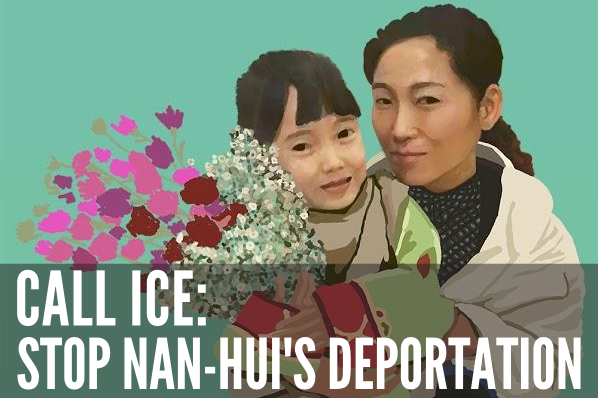
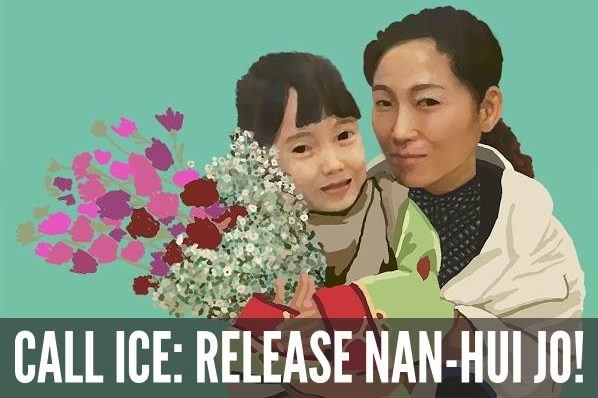
nan-hui jo campaign updates

diff --git a/_includes/head.html b/_includes/head.html
@@ -65,7 +65,7 @@
 	
   <script src="{{ baseurl }}/static/js/jquery-1.11.1.min.js"></script>
   <script src="{{ baseurl }}/static/js/main.js"></script>
-  {% if page.title == "Call ICE: Stop Deporting This Domestic Violence Survivor" %}
+  {% if page.title == "Call ICE: Release Nan-Hui Jo, Stop Deporting Survivors" %}
   <script src="{{ baseurl }}/static/js/callice.js"></script>
   {% endif %}
   {% if page.title == "Call Rep. Judy Chu: stand with the many, not the few" %}

diff --git a/static/js/callice.js b/static/js/callice.js
@@ -47,7 +47,8 @@ $(document).on('can_embed_loaded', function() {
 
         var data = {
             campaignId: 'nanhui-ice',
-            userPhone: validatePhone(phone)
+            userPhone: validatePhone(phone),
+			zipcode: '00000'
         };
 
         $.ajax({

diff --git a/ice-callscript/index.md b/ice-callscript/index.md
@@ -11,7 +11,7 @@ You'll get a call from us shortly with further instructions. _If you don't recei
 __Here's a call script you can use to speak with ICE officials.__
 
 <div class="featurebox">
-I am calling to urge you to release Nan-Hui Jo (number A098 906 641). She is a survivor of domestic violence and has U-Visa and Violence Against Women Act petitions in process. Further, because there is an ongoing custody dispute, if ICE were to intervene and deport Ms. Jo, it could yield in permanent separation between mother and child. Moreover, Ms. Jo’s case falls squarely into ICE’s parental interests directive from August 23, 2013, which require that the agency’s practices do not interfere with an individual’s parental rights. Please exercise discretion and release her from detention. Thank you.
+I am calling to urge you to release Nan-Hui Jo (number A098 906 641). She is a survivor of domestic violence and has U-Visa and Violence Against Women Act petitions in process. Further, because there is an ongoing custody dispute, if ICE were to intervene and deport Ms. Jo, it could mean permanent separation between mother and child. Moreover, Ms. Jo’s case falls squarely into ICE’s parental interests directive from August 23, 2013, which require that the agency’s practices do not interfere with an individual’s parental rights. Please exercise discretion and release her from detention. Thank you.
 </div>
 
 ## Once you're done...

diff --git a/_posts/2015-06-08-nanhui.md b/_posts/2015-06-08-nanhui.md
@@ -1,10 +1,10 @@
 ---
 layout: petition-page
 permalink: /nanhui/
-title: "Call ICE: Stop Deporting This Domestic Violence Survivor"
+title: "Call ICE: Release Nan-Hui Jo, Stop Deporting Survivors"
 category: campaigns
 featured-image: 'static/images/featured/nanhui.png'
-blurb: "ICE has the power to stop Nan-Hui Jo's deportation. Call now to help reunite her with her daughter."
+blurb: "ICE has the power to release domestic violence survivor Nan-Hui Jo. Call now to help reunite her with her daughter."
 ---
 <ul class="compact" id="phone-errors"></ul>
 
